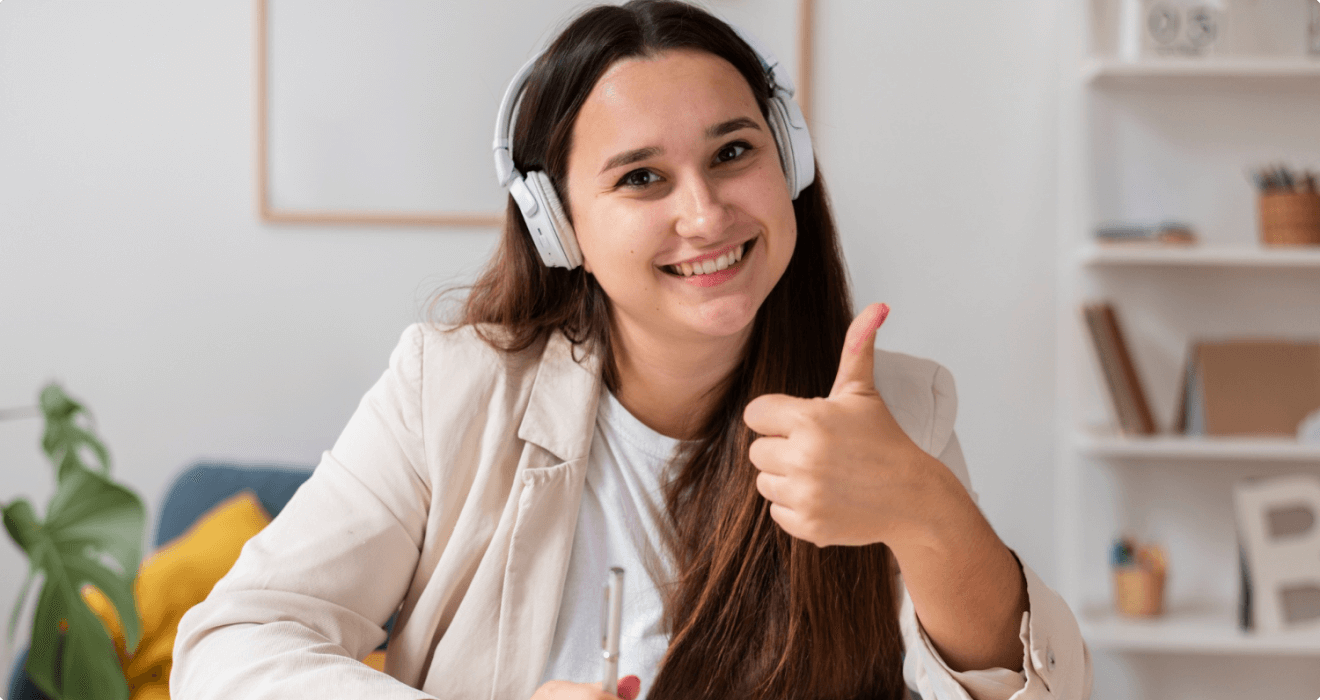
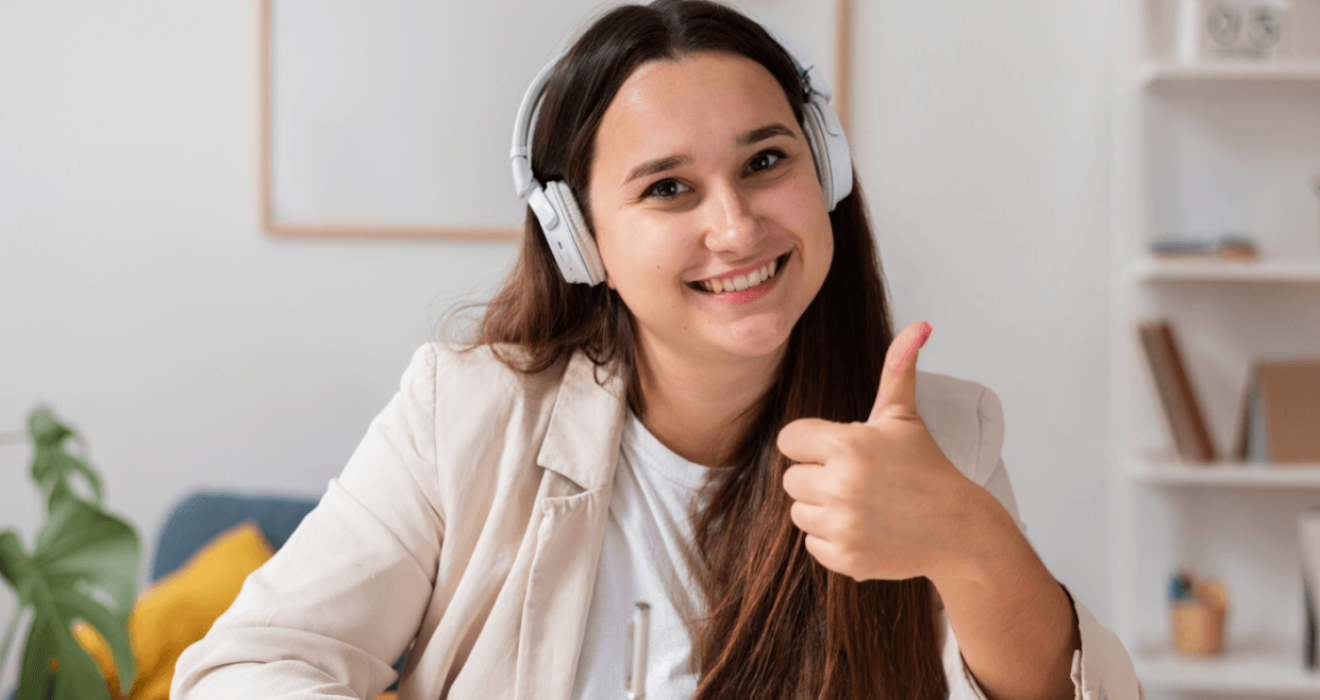
add slider

diff --git a/index.html b/index.html
@@ -13,7 +13,7 @@
 </head>
 
 <body>
-    <header>
+    <header class="container">
         <!------------Navbar Start----------->
         <nav class="navbar navbar-expand-lg bg-white">
             <div class="container">
@@ -42,6 +42,62 @@
                 </div>
             </div>
         </nav>
+        <!------------Navbar End----------->
+
+        <!------------Slider Start----------->
+        <section class="mt-5">
+            <div id="carouselExampleCaptions" class="carousel slide" data-bs-ride="false">
+                <div class="carousel-inner">
+                    <div class="carousel-item active">
+                        <img src="images/cover/cover-1.png" class="d-block w-100 z-index-1000" alt="...">
+                        <div
+                            class="carousel-caption d-flex flex-column justify-content-center align-items-center h-100">
+                            <div>
+                                <h1 class="fs-1 fw-bold">Get Started Digital<br> Learning</h1>
+                                <p>t is a long established fact that a reader will be distracted by the readable
+                                    content<br>of a page when looking at its layout.</p>
+                                <button type="button" class="btn btn-info btn-lg text-white">Get Started</button>
+                            </div>
+                        </div>
+                    </div>
+                    <div class="carousel-item">
+                        <img src="images/cover/cover-2.png" class="d-block w-100" alt="...">
+                        <div
+                            class="carousel-caption d-flex flex-column justify-content-center align-items-center h-100">
+                            <div>
+                                <h1 class="fw-bold">Get Started Digital<br> Learning</h1>
+                                <p>t is a long established fact that a reader will be distracted by the readable
+                                    content<br>of a page when looking at its layout.</p>
+                                <button type="button" class="btn btn-info btn-lg text-white">Get Started</button>
+                            </div>
+                        </div>
+                    </div>
+                    <div class="carousel-item">
+                        <img src="images/cover/cover-3.png" class="d-block w-100" alt="...">
+                        <div
+                            class="carousel-caption d-flex flex-column justify-content-center align-items-center h-100">
+                            <div>
+                                <h1 class="fw-bold">Get Started Digital<br> Learning</h1>
+                                <p>t is a long established fact that a reader will be distracted by the readable
+                                    content<br>of a page when looking at its layout.</p>
+                                <button type="button" class="btn btn-info btn-lg text-white">Get Started</button>
+                            </div>
+                        </div>
+                    </div>
+                </div>
+                <button class="carousel-control-prev" type="button" data-bs-target="#carouselExampleCaptions"
+                    data-bs-slide="prev">
+                    <span class="carousel-control-prev-icon" aria-hidden="true"></span>
+                    <span class="visually-hidden">Previous</span>
+                </button>
+                <button class="carousel-control-next" type="button" data-bs-target="#carouselExampleCaptions"
+                    data-bs-slide="next">
+                    <span class="carousel-control-next-icon" aria-hidden="true"></span>
+                    <span class="visually-hidden">Next</span>
+                </button>
+            </div>
+        </section>
+        <!------------Slider End----------->
 
 
     </header>
